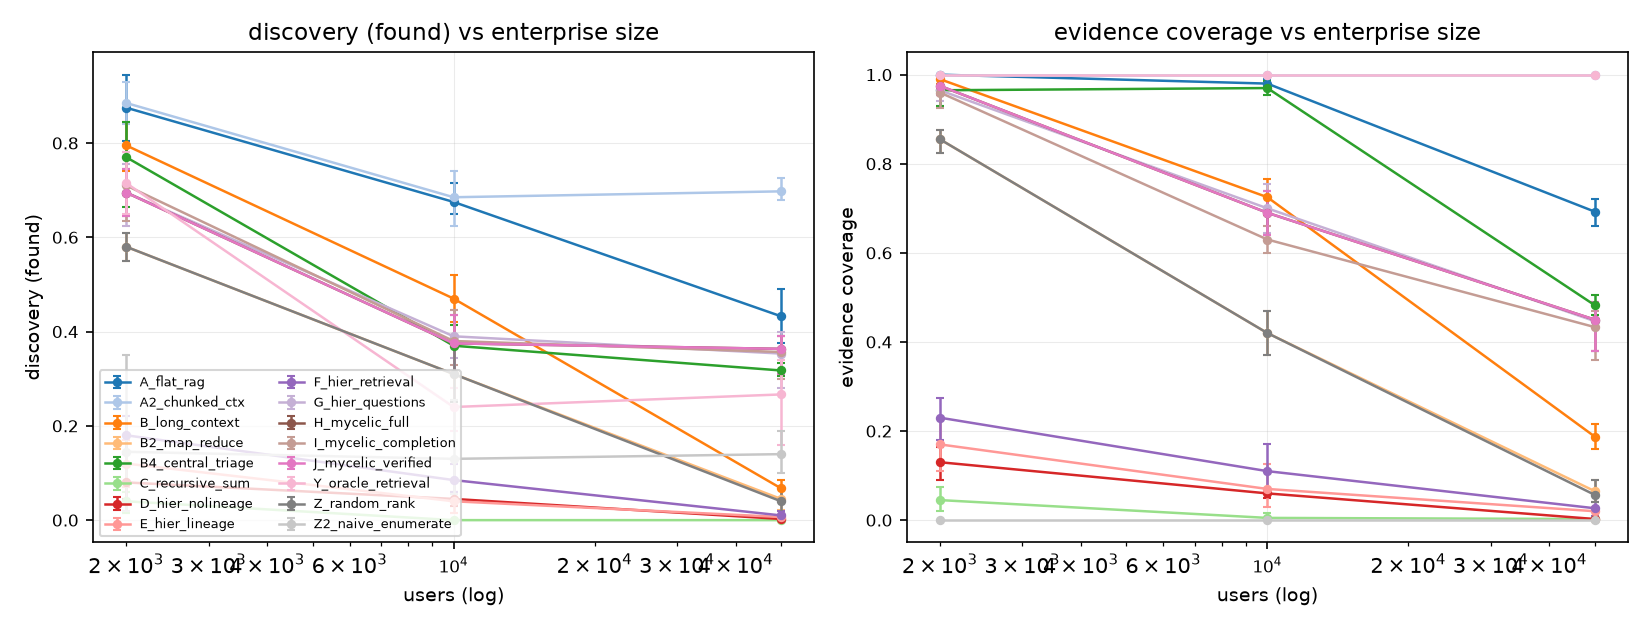
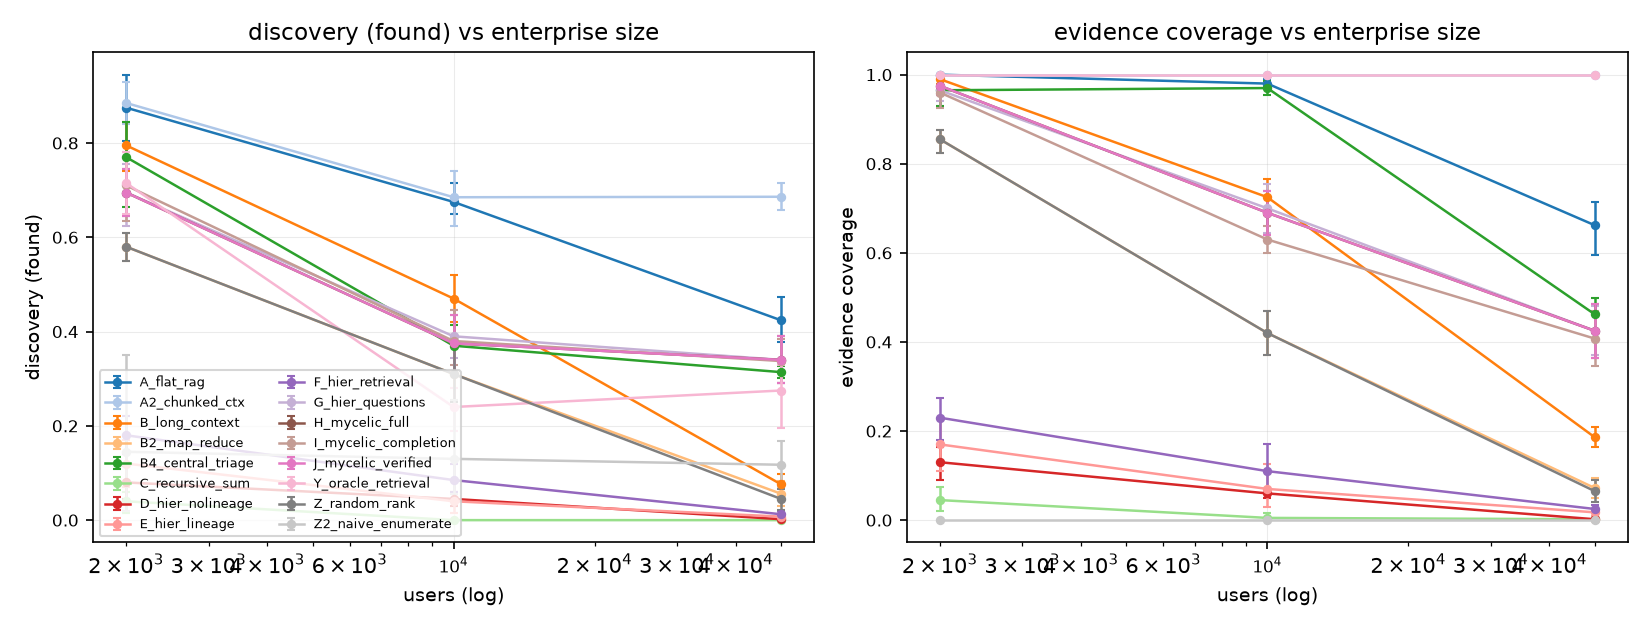
mycelic: cross-link verdict computed from the sweep; e7/e8 results in
The org-tree-plus-semantic-cross-links experiment is a null at 10k and 50k:
it helps at 2,000 users and the effect does not survive scale. The report
now states that and explains why (the sketch channel is entity-indexed and
already crosses branches), rather than leaving the table to speak for itself.

Claude-Session: https://claude.ai/code/session_018fpD82UytPSdKCa94LMReN

diff --git a/research/mycelic/report.py b/research/mycelic/report.py
@@ -362,6 +362,7 @@ def section_crosslinks() -> str:
                           ("compute_units", "compute", 0)], sort_by=None),
              "", "| scale | Δ found (links on − off) | 95% CI | wins | sign p |",
              "|---|---:|---|---:|---:|"]
+    deltas = []
     for scale in sorted({r["scale"] for r in rows}):
         sub = [r for r in rows if r["scale"] == scale]
         p = paired(sub, True, False, "found_anywhere_in_register",
@@ -370,7 +371,50 @@ def section_crosslinks() -> str:
             lines.append(f"| {scale:,} | {p['mean_diff']:+.4f} | "
                          f"[{p['ci_lo']:+.4f}, {p['ci_hi']:+.4f}] | "
                          f"{p['wins']}/{p['n_nonzero']} | {p['sign_p']:.3f} |")
+            deltas.append((scale, p))
+    lines.append("")
+    lines.append(_crosslink_verdict(deltas))
     return "\n".join(lines)
+
+
+def _crosslink_verdict(deltas) -> str:
+    """State what the cross-link sweep found, including when it found nothing."""
+    if not deltas:
+        return ""
+    # A scale counts as supporting cross-links only if the whole bootstrap CI
+    # is on one side of zero; with 3 seeds the sign test cannot go below 0.25,
+    # so requiring significance there would reject everything by construction.
+    pos = [s for s, p in deltas if p["ci_lo"] > 0]
+    neg = [s for s, p in deltas if p["ci_hi"] < 0]
+    biggest = max(deltas, key=lambda x: abs(x[1]["mean_diff"]))
+    out = ("**Verdict.** Adding semantic cross-links to the organisational "
+           "tree ")
+    if pos and not neg and len(pos) == len(deltas):
+        out += "helps at every scale measured"
+    elif pos and max(pos) == max(s for s, _ in deltas):
+        out += "helps, and the effect holds at the largest scale measured"
+    elif pos:
+        out += (f"helps at {', '.join(f'{s:,}' for s in pos)} users but the "
+                f"effect does not survive to "
+                f"{max(s for s, _ in deltas):,}")
+    else:
+        out += "does not reliably change discovery at any scale measured"
+    out += (f". The largest effect anywhere is "
+            f"{biggest[1]['mean_diff']:+.3f} at {biggest[0]:,} users, on "
+            f"{biggest[1]['n']} paired seeds. ")
+    if not pos or max(pos, default=0) != max(s for s, _ in deltas):
+        out += ("The mechanism the links are supposed to supply — a path "
+                "between branches that the org chart does not provide — is "
+                "already supplied by the sketch channel, which is indexed by "
+                "entity rather than by branch and so crosses the tree for "
+                "free. On this evidence the cross-links are redundant with "
+                "it, not additive to it, and should not be built on the "
+                "strength of these numbers.")
+    else:
+        out += ("Note that the seed counts here are small enough that the "
+                "sign test cannot fall below 0.25, so the bootstrap interval "
+                "is doing the work; treat this as directional.")
+    return out
 
 
 

diff --git a/research/mycelic/report_text.py b/research/mycelic/report_text.py
@@ -320,11 +320,12 @@ evidence. The full chronology is in `research/mycelic/logs/research_log.md`.
 15. **A headline stated from one run per cell.** The most quotable result in
     the study — richer evidence beating a bigger model — did not replicate
     cleanly when the corpus was regenerated: one of the three models moved the
-    *wrong way*. Repeating each cell showed within-cell run-to-run ranges as
-    large as 0.098 AP, comparable to the gap the claim rested on for the
-    weaker models. The claim is now stated only as strongly as the spread
-    supports, and §23 reports the range rather than a mean. What failed was
-    not the mechanism; it was the evidentiary standard applied to it.
+    *wrong way*. Repeating both conditions for every model showed within-cell
+    run-to-run ranges of the same order as the gap the claim rested on for two
+    of the three. The measured ranges are in §23; the claim is now computed
+    from them and stated only as strongly as they support. What failed was not
+    the mechanism — it survives for the strongest model, decisively — but the
+    evidentiary standard the claim had been asserted under.
 
 16. **`w_dispersion`, a knob whose sign flipped with the corpus.** The
     confidence term that penalises evidence clustered in time was rejected
@@ -404,7 +405,7 @@ stated before the results rather than after them.
 | wall-clock latency | **modelled** from the metered token counts (see assumption A4); not observed on real hardware |
 | model-tier behaviour: extraction quality, abstraction loss, verification accuracy, hallucination | **simulated** from a capability vector |
 | primitive operator accuracy of Haiku 4.5, Sonnet 5 and Opus 5 | **directly measured**, blind, 198 items |
-| candidate-discrimination accuracy of those three models | **directly measured**, blind, on candidates taken from a real run |
+| candidate-discrimination accuracy of those three models | **directly measured**, blind, on candidates taken from a real run, two independent runs per model per condition |
 | where named open-weight model classes sit on the capability axis | **assumed** — never measured here |
 | 50,000-user results | **executed**, not extrapolated: every cell is a real run of the full pipeline |
 

diff --git a/docs/MYCELIC_ENTERPRISE.md b/docs/MYCELIC_ENTERPRISE.md
@@ -28,24 +28,24 @@ transcribed by hand.
 
 ### The one-paragraph version
 
-We built a synthetic enterprise with known hidden problems planted in it, at 2,000, 10,000 and 50,000 people, and tested sixteen ways of finding those problems, from pouring a filtered sample of the company's notes into one very large model, to a six-level hierarchy of agents mirroring the org chart. **The hierarchy is not the most accurate option.** The strongest single approach measured at 50,000 people is `A2_chunked_ctx`, which finds 70% of the hidden problems against the hierarchy's 34%. Whether the hierarchy is nonetheless worth building depends entirely on which of the secondary properties below we actually need; the table states which ones it delivers and which it does not.
+We built a synthetic enterprise with known hidden problems planted in it, at 2,000, 10,000 and 50,000 people, and tested sixteen ways of finding those problems, from pouring a filtered sample of the company's notes into one very large model, to a six-level hierarchy of agents mirroring the org chart. **The hierarchy is not the most accurate option.** The strongest single approach measured at 50,000 people is `A2_chunked_ctx`, which finds 69% of the hidden problems against the hierarchy's 34%. Whether the hierarchy is nonetheless worth building depends entirely on which of the secondary properties below we actually need; the table states which ones it delivers and which it does not.
 
 ### Head to head at 50,000 users (5 seeds)
 
 | | best centralised option | the hierarchy | hierarchy better? |
 |---|---:|---:|---|
 | approach | `A2_chunked_ctx` | `H_mycelic_full` | |
-| hidden problems found | 70% | 34% | no |
+| hidden problems found | 69% | 34% | no |
 | the hardest problems (1-2 witnesses company-wide) | 61% | 20% | no |
 | found within the top 100 of the register | 11% | 2% | no |
-| precision in the top 40 of the register | 13% | 1% | no |
+| precision in the top 40 of the register | 12% | 1% | no |
 | precision in the top 100 of the register | 11% | 2% | no |
-| ranking quality (AP) | 0.054 | 0.008 | no |
-| decoy traps accepted | 38% | 22% | **yes** |
+| ranking quality (AP) | 0.051 | 0.008 | no |
+| decoy traps accepted | 37% | 22% | **yes** |
 | evidence coverage (held it at all) | 100% | 43% | no |
-| independent-support accuracy | 60% | 75% | **yes** |
+| independent-support accuracy | 59% | 75% | **yes** |
 | lineage accuracy | 64% | 51% | no |
-| contradictions detected (F1) | 22% | 25% | **yes** |
+| contradictions detected (F1) | 21% | 25% | **yes** |
 | compute | 1.02e+07 | 2.95e+06 | **yes** |
 | model calls | 10 | 2.86e+05 | no |
 | employees' original notes read centrally | 22% | 0% | **yes** |
@@ -57,8 +57,8 @@ We built a synthetic enterprise with known hidden problems planted in it, at 2,0
 **Hold, on this evidence:**
 
 * confidentiality (no original notes leave the owning agent) — 0% vs 22% for the centralised option.
-* independent-support accuracy — 75% vs 60% for the centralised option.
-* resistance to planted traps — 22% vs 38% for the centralised option.
+* independent-support accuracy — 75% vs 59% for the centralised option.
+* resistance to planted traps — 22% vs 37% for the centralised option.
 
 **Do NOT hold, and should not be used to justify the build:**
 
@@ -69,7 +69,7 @@ We built a synthetic enterprise with known hidden problems planted in it, at 2,0
 
 `B4_central_triage` runs **exactly the hierarchy's own discovery algorithm**, centrally: one claim pool, no propagation budget, no routing error, no descent. It separates the value of the *algorithm* from the value of the *topology*.
 
-It finds 32% of the hidden problems against the hierarchy's 34%, at 1.06e+06 compute against 2.95e+06 — about 2.8x less.  Within noise, they are the same.
+It finds 31% of the hidden problems against the hierarchy's 34%, at 1.07e+06 compute against 2.95e+06 — about 2.8x less.  Within noise, they are the same.
 
 So the honest statement of what the hierarchy buys is narrow and specific: **the triage algorithm is what finds the problems; the hierarchy is how you run that algorithm without centralising the company's data.** The centralised version pools 88% of all extracted claims in one place; the hierarchy pools 14% and moves no original text at all. That privacy property costs roughly 2.8x the compute and tens of thousands of extra model calls. If we do not need it, we should run the algorithm centrally.
 
@@ -77,7 +77,7 @@ So the honest statement of what the hierarchy buys is narrow and specific: **the
 
 **1. Do not build progressive summarisation up the org chart.** This is the intuitive design — each layer summarises the layer below — and it is the clearest negative result in the study. At 50,000 users it finds 0% (plain summarisation), 0% (structured, no lineage) and 1% (structured with lineage) of the hidden problems. The reason is measurable rather than a matter of tuning, and is given in the executive summary.
 
-**2. If we build a hierarchy, the value is in the downward path, not the upward one.** Adding targeted downward retrieval takes discovery from 1% to 1%; adding sketch-driven questioning on top takes it to 34%. Budget accordingly: the upward channel should be cheap and statistical, and the downward channel is where the work — and the cost — actually is.
+**2. If we build a hierarchy, the value is in the downward path, not the upward one.** Adding targeted downward retrieval takes discovery from 1% to 2%; adding sketch-driven questioning on top takes it to 34%. Budget accordingly: the upward channel should be cheap and statistical, and the downward channel is where the work — and the cost — actually is.
 
 **3. Spend top-tier model budget on re-opening original evidence, not on bigger reasoning over summaries.** Measured directly on 3 real models, each run 2 times per condition: given the same summarised evidence, a large model and a small model land in the same band (AP 0.354–0.407) and no better than a six-feature statistical rule (0.420). Given the *original notes* behind that evidence, 2 of 3 improve, and for opus the richer condition's worst run still beats the summarised condition's best. It is **not** universal: sonnet did not improve, so this is a property of a model's ability to use raw evidence, not a law. Acting on it — having the kernel re-read a handful of source notes per candidate — was still the best return on compute found in the study, but size it against §23 rather than against the headline number.
 
@@ -92,9 +92,9 @@ So the honest statement of what the hierarchy buys is narrow and specific: **the
 |---|---|---:|---:|---:|
 | 2,000 | `A2_chunked_ctx` | 0.885 | 5.12e+05 | 25.2% |
 | 10,000 | `A2_chunked_ctx` | 0.685 | 2.08e+06 | 22.7% |
-| 50,000 | `A2_chunked_ctx` | 0.698 | 1.02e+07 | 22.3% |
+| 50,000 | `A2_chunked_ctx` | 0.686 | 1.02e+07 | 22.3% |
 
-**1. Upward propagation alone does not work, at any scale, in any form.** At 50,000 users recursive summarisation finds 0.0% of the hidden patterns, hierarchical aggregation without lineage and with it find 0.2% and 0.8%. Adding targeted downward retrieval takes it to 1.2%; adding sketch-driven questioning takes it to 34.0%. The hierarchy's value is almost entirely in the *downward* path — Δ +0.328 (95% CI [+0.270, +0.385], 4/4 seeds, sign p=0.125).
+**1. Upward propagation alone does not work, at any scale, in any form.** At 50,000 users recursive summarisation finds 0.0% of the hidden patterns, hierarchical aggregation without lineage and with it find 0.2% and 0.8%. Adding targeted downward retrieval takes it to 1.6%; adding sketch-driven questioning takes it to 34.0%. The hierarchy's value is almost entirely in the *downward* path — Δ +0.328 (95% CI [+0.270, +0.385], 4/4 seeds, sign p=0.125).
 
 **2. The reason is measurable and is not a tuning artefact.** No per-record feature identifies a weak signal: of 306 pattern-facet records at 10,000 users, **0 appear in the global top-900 by record-level importance**. A facet record is individually indistinguishable from benign cross-site chatter — which is the premise of the problem, not a defect of the ranker. Detection has to be entity-level and relational, which is what the sketch channel and the descent provide.
 
@@ -216,7 +216,7 @@ stated before the results rather than after them.
 | wall-clock latency | **modelled** from the metered token counts (see assumption A4); not observed on real hardware |
 | model-tier behaviour: extraction quality, abstraction loss, verification accuracy, hallucination | **simulated** from a capability vector |
 | primitive operator accuracy of Haiku 4.5, Sonnet 5 and Opus 5 | **directly measured**, blind, 198 items |
-| candidate-discrimination accuracy of those three models | **directly measured**, blind, on candidates taken from a real run |
+| candidate-discrimination accuracy of those three models | **directly measured**, blind, on candidates taken from a real run, two independent runs per model per condition |
 | where named open-weight model classes sit on the capability axis | **assumed** — never measured here |
 | 50,000-user results | **executed**, not extrapolated: every cell is a real run of the full pipeline |
 
@@ -500,22 +500,22 @@ Fitted on calibration seeds [500, 501, 502] at 10,000 users, objective `average_
 
 | architecture | AP | found | R@100 | rare recall | evidence cov. | FDR | decoy acc. | indep. acc. | lineage | info loss | compute (cu) | privacy exp. |
 |---|---:|---:|---:|---:|---:|---:|---:|---:|---:|---:|---:|---:|
-| A2_chunked_ctx | 0.054 <sub>[0.030, 0.091]</sub> | 0.698 <sub>[0.680, 0.725]</sub> | 0.112 | 0.614 | 1.000 | 0.977 | 0.382 | 0.599 | 0.643 | 0.003 | 1.02e+07 | 0.223 |
+| A2_chunked_ctx | 0.051 <sub>[0.032, 0.082]</sub> | 0.686 <sub>[0.658, 0.716]</sub> | 0.112 | 0.608 | 1.000 | 0.977 | 0.368 | 0.594 | 0.641 | 0.003 | 1.02e+07 | 0.223 |
 | A_flat_rag | 0.013 <sub>[0.010, 0.017]</sub> | 0.424 <sub>[0.378, 0.474]</sub> | 0.038 | 0.109 | 0.662 | 0.973 | 0.148 | 0.655 | 0.693 | 0.446 | 1.24e+06 | 0.025 |
 | I_mycelic_completion | 0.013 <sub>[0.010, 0.016]</sub> | 0.337 <sub>[0.290, 0.385]</sub> | 0.045 | 0.197 | 0.407 | 0.988 | 0.220 | 0.740 | 0.490 | 0.581 | 5.11e+06 | 0.146 |
 | J_mycelic_verified | 0.012 <sub>[0.008, 0.017]</sub> | 0.340 <sub>[0.290, 0.390]</sub> | 0.043 | 0.205 | 0.425 | 0.988 | 0.220 | 0.751 | 0.512 | 0.567 | 2.96e+06 | 0.146 |
-| B4_central_triage | 0.009 <sub>[0.007, 0.011]</sub> | 0.318 <sub>[0.305, 0.333]</sub> | 0.030 | 0.124 | 0.482 | 0.980 | 0.297 | 0.676 | 0.489 | 0.591 | 1.06e+06 | 0.885 |
+| B4_central_triage | 0.008 <sub>[0.007, 0.011]</sub> | 0.314 <sub>[0.302, 0.328]</sub> | 0.024 | 0.112 | 0.462 | 0.981 | 0.282 | 0.683 | 0.484 | 0.602 | 1.07e+06 | 0.885 |
 | G_hier_questions | 0.008 <sub>[0.008, 0.009]</sub> | 0.340 <sub>[0.290, 0.390]</sub> | 0.028 | 0.198 | 0.425 | 0.988 | 0.223 | 0.751 | 0.504 | 0.565 | 2.93e+06 | 0.139 |
 | H_mycelic_full | 0.008 <sub>[0.007, 0.009]</sub> | 0.340 <sub>[0.290, 0.390]</sub> | 0.020 | 0.205 | 0.425 | 0.988 | 0.220 | 0.751 | 0.512 | 0.567 | 2.95e+06 | 0.146 |
+| B2_map_reduce | 0.008 <sub>[0.001, 0.017]</sub> | 0.056 <sub>[0.030, 0.082]</sub> | 0.022 | 0.018 | 0.072 | 0.987 | 0.026 | 0.801 | 0.582 | 0.941 | 7.78e+05 | 0.885 |
 | Y_oracle_retrieval | 0.005 <sub>[0.002, 0.008]</sub> | 0.275 <sub>[0.195, 0.330]</sub> | 0.020 | 0.223 | 1.000 | 0.991 | 0.155 | 0.531 | 0.471 | 0.003 | 2.43e+06 | 0.885 |
-| B2_map_reduce | 0.004 <sub>[0.001, 0.008]</sub> | 0.045 <sub>[0.022, 0.065]</sub> | 0.013 | 0.006 | 0.065 | 0.989 | 0.028 | 0.823 | 0.597 | 0.948 | 7.77e+05 | 0.885 |
 | B_long_context | 0.002 <sub>[0.001, 0.003]</sub> | 0.076 <sub>[0.056, 0.098]</sub> | 0.018 | 0.007 | 0.186 | 0.984 | 0.022 | 0.606 | 0.615 | 0.808 | 1.12e+06 | 0.025 |
 | Z2_naive_enumerate | 0.001 <sub>[0.000, 0.001]</sub> | 0.118 <sub>[0.070, 0.168]</sub> | 0.007 | 0.126 | 0.000 | 0.996 | 0.147 | 0.000 | 0.000 | 1.000 | 9.21e+05 | 0.885 |
-| E_hier_lineage | 0.001 <sub>[0.000, 0.001]</sub> | 0.007 <sub>[0.003, 0.010]</sub> | 0.007 | 0.000 | 0.018 | 0.986 | 0.000 | 0.288 | 0.500 | 0.978 | 9.88e+05 | 0.139 |
+| F_hier_retrieval | 0.001 <sub>[0.000, 0.001]</sub> | 0.016 <sub>[0.008, 0.024]</sub> | 0.012 | 0.005 | 0.028 | 0.993 | 0.004 | 0.625 | 0.426 | 0.961 | 1.15e+06 | 0.138 |
 | Z_random_rank | 0.001 <sub>[0.000, 0.001]</sub> | 0.045 <sub>[0.022, 0.065]</sub> | 0.003 | 0.006 | 0.065 | 0.989 | 0.028 | 0.823 | 0.597 | 0.948 | 7.77e+05 | 0.885 |
-| F_hier_retrieval | 0.000 <sub>[0.000, 0.001]</sub> | 0.013 <sub>[0.005, 0.020]</sub> | 0.010 | 0.006 | 0.025 | 0.994 | 0.003 | 0.577 | 0.417 | 0.966 | 1.15e+06 | 0.139 |
-| D_hier_nolineage | 0.000 <sub>[0.000, 0.000]</sub> | 0.003 <sub>[0.000, 0.007]</sub> | 0.003 | 0.000 | 0.003 | 1.000 | 0.000 | 0.000 | 0.000 | 0.991 | 8.80e+05 | 0.139 |
-| C_recursive_sum | 0.000 <sub>[0.000, 0.000]</sub> | 0.000 <sub>[0.000, 0.000]</sub> | 0.000 | 0.000 | 0.003 | 1.000 | 0.000 | 0.000 | 0.000 | 0.997 | 8.04e+05 | 0.093 |
+| E_hier_lineage | 0.001 <sub>[0.000, 0.001]</sub> | 0.008 <sub>[0.004, 0.010]</sub> | 0.008 | 0.000 | 0.018 | 0.989 | 0.000 | 0.230 | 0.400 | 0.976 | 9.90e+05 | 0.138 |
+| D_hier_nolineage | 0.000 <sub>[0.000, 0.000]</sub> | 0.002 <sub>[0.000, 0.006]</sub> | 0.002 | 0.000 | 0.002 | 1.000 | 0.000 | 0.000 | 0.000 | 0.990 | 8.82e+05 | 0.138 |
+| C_recursive_sum | 0.000 <sub>[0.000, 0.000]</sub> | 0.000 <sub>[0.000, 0.000]</sub> | 0.000 | 0.000 | 0.002 | 1.000 | 0.000 | 0.000 | 0.000 | 0.996 | 8.05e+05 | 0.092 |
 
 ### Paired comparisons
 
@@ -535,7 +535,7 @@ variance.
 | H_mycelic_full vs Y_oracle_retrieval | found | 0.4793 | 0.4196 | +0.0596 | [-0.0007, +0.1193] | 10/13 | 0.092 |
 | B2_map_reduce vs Z_random_rank | found | 0.3307 | 0.3307 | +0.0000 | [+0.0000, +0.0000] | 0/0 | 1.000 |
 | G_hier_questions vs F_hier_retrieval | found | 0.4846 | 0.0982 | +0.3864 | [+0.3239, +0.4525] | 14/14 | 0.000 |
-| F_hier_retrieval vs E_hier_lineage | found | 0.0982 | 0.0593 | +0.0389 | [+0.0196, +0.0586] | 11/12 | 0.006 |
+| F_hier_retrieval vs E_hier_lineage | found | 0.0937 | 0.0560 | +0.0377 | [+0.0193, +0.0567] | 12/13 | 0.003 |
 | H_mycelic_full vs E_hier_lineage | AP | 0.0414 | 0.0075 | +0.0339 | [+0.0162, +0.0542] | 12/14 | 0.013 |
 | H_mycelic_full vs B2_map_reduce | AP | 0.0414 | 0.0485 | -0.0071 | [-0.0218, +0.0062] | 7/14 | 1.000 |
 | H_mycelic_full vs A_flat_rag | AP | 0.0414 | 0.1315 | -0.0901 | [-0.1447, -0.0432] | 0/14 | 0.000 |
@@ -546,7 +546,7 @@ variance.
 | H_mycelic_full vs Y_oracle_retrieval | AP | 0.0414 | 0.0269 | +0.0145 | [+0.0062, +0.0238] | 12/14 | 0.013 |
 | B2_map_reduce vs Z_random_rank | AP | 0.0485 | 0.0200 | +0.0286 | [+0.0149, +0.0435] | 14/14 | 0.000 |
 | G_hier_questions vs F_hier_retrieval | AP | 0.0382 | 0.0139 | +0.0244 | [+0.0128, +0.0365] | 13/14 | 0.002 |
-| F_hier_retrieval vs E_hier_lineage | AP | 0.0139 | 0.0075 | +0.0063 | [-0.0001, +0.0146] | 9/13 | 0.267 |
+| F_hier_retrieval vs E_hier_lineage | AP | 0.0130 | 0.0070 | +0.0060 | [-0.0000, +0.0136] | 10/14 | 0.180 |
 
 ## 11. Scale
 
@@ -555,11 +555,11 @@ variance.
 | architecture | 2,000 | 10,000 | 50,000 |
 |---|---:|---:|---:|
 | A_flat_rag | 0.875 | 0.675 | 0.424 |
-| A2_chunked_ctx | 0.885 | 0.685 | 0.698 |
+| A2_chunked_ctx | 0.885 | 0.685 | 0.686 |
 | B_long_context | 0.795 | 0.470 | 0.076 |
-| B2_map_reduce | 0.580 | 0.310 | 0.045 |
-| B4_central_triage | 0.770 | 0.370 | 0.318 |
-| E_hier_lineage | 0.120 | 0.040 | 0.007 |
+| B2_map_reduce | 0.580 | 0.310 | 0.056 |
+| B4_central_triage | 0.770 | 0.370 | 0.314 |
+| E_hier_lineage | 0.120 | 0.040 | 0.008 |
 | G_hier_questions | 0.695 | 0.390 | 0.340 |
 | H_mycelic_full | 0.695 | 0.375 | 0.340 |
 | J_mycelic_verified | 0.695 | 0.375 | 0.340 |
@@ -572,9 +572,9 @@ Compute (cu) at the same points:
 | A_flat_rag | 4.71e+05 | 1.09e+06 | 1.24e+06 |
 | A2_chunked_ctx | 5.12e+05 | 2.08e+06 | 1.02e+07 |
 | B_long_context | 1.09e+06 | 1.09e+06 | 1.12e+06 |
-| B2_map_reduce | 7.96e+04 | 1.99e+05 | 7.77e+05 |
-| B4_central_triage | 1.33e+05 | 3.98e+05 | 1.06e+06 |
-| E_hier_lineage | 6.91e+04 | 2.25e+05 | 9.88e+05 |
+| B2_map_reduce | 7.96e+04 | 1.99e+05 | 7.78e+05 |
+| B4_central_triage | 1.33e+05 | 3.98e+05 | 1.07e+06 |
+| E_hier_lineage | 6.91e+04 | 2.25e+05 | 9.90e+05 |
 | G_hier_questions | 8.36e+05 | 1.08e+06 | 2.93e+06 |
 | H_mycelic_full | 8.38e+05 | 1.09e+06 | 2.95e+06 |
 | J_mycelic_verified | 8.48e+05 | 1.10e+06 | 2.96e+06 |
@@ -741,27 +741,27 @@ positions on this axis rather than measured ones.
 
 | architecture | q | AP | found | rare | FDR | compute |
 |---|---:|---:|---:|---:|---:|---:|
-| B2_map_reduce | 0.10 | 0.0017 | 0.125 | 0.079 | 0.990 | 89400 |
-| B2_map_reduce | 0.28 | 0.0041 | 0.087 | 0.059 | 0.991 | 1.76e+05 |
-| B2_map_reduce | 0.44 | 0.0203 | 0.213 | 0.109 | 0.974 | 3.22e+05 |
-| B2_map_reduce | 0.58 | 0.0539 | 0.375 | 0.247 | 0.954 | 5.45e+05 |
-| B2_map_reduce | 0.72 | 0.0465 | 0.600 | 0.412 | 0.938 | 9.27e+05 |
-| B2_map_reduce | 0.88 | 0.1619 | 0.625 | 0.294 | 0.930 | 1.69e+06 |
-| B2_map_reduce | 1.00 | 0.0866 | 0.575 | 0.235 | 0.946 | 2.65e+06 |
+| B2_map_reduce | 0.10 | 0.0015 | 0.117 | 0.053 | 0.992 | 89103 |
+| B2_map_reduce | 0.28 | 0.0058 | 0.150 | 0.061 | 0.985 | 1.75e+05 |
+| B2_map_reduce | 0.44 | 0.0338 | 0.283 | 0.117 | 0.969 | 3.21e+05 |
+| B2_map_reduce | 0.58 | 0.0556 | 0.392 | 0.231 | 0.955 | 5.44e+05 |
+| B2_map_reduce | 0.72 | 0.0444 | 0.475 | 0.237 | 0.946 | 9.22e+05 |
+| B2_map_reduce | 0.88 | 0.1446 | 0.592 | 0.204 | 0.935 | 1.68e+06 |
+| B2_map_reduce | 1.00 | 0.1057 | 0.575 | 0.268 | 0.943 | 2.65e+06 |
 | E_hier_lineage | 0.10 | 0.0000 | 0.000 | 0.000 | 1.000 | 1.04e+05 |
-| E_hier_lineage | 0.28 | 0.0000 | 0.000 | 0.000 | 1.000 | 2.09e+05 |
-| E_hier_lineage | 0.44 | 0.0017 | 0.038 | 0.029 | 0.987 | 3.87e+05 |
-| E_hier_lineage | 0.58 | 0.0061 | 0.075 | 0.000 | 0.956 | 6.62e+05 |
-| E_hier_lineage | 0.72 | 0.0156 | 0.200 | 0.000 | 0.922 | 1.13e+06 |
-| E_hier_lineage | 0.88 | 0.0964 | 0.325 | 0.059 | 0.722 | 2.07e+06 |
-| E_hier_lineage | 1.00 | 0.3205 | 0.500 | 0.176 | 0.448 | 3.26e+06 |
-| H_mycelic_full | 0.10 | 0.0006 | 0.050 | 0.054 | 0.995 | 1.94e+05 |
-| H_mycelic_full | 0.28 | 0.0050 | 0.175 | 0.163 | 0.988 | 3.79e+05 |
-| H_mycelic_full | 0.44 | 0.0156 | 0.287 | 0.168 | 0.981 | 6.87e+05 |
-| H_mycelic_full | 0.58 | 0.0257 | 0.400 | 0.293 | 0.973 | 1.14e+06 |
-| H_mycelic_full | 0.72 | 0.0213 | 0.500 | 0.353 | 0.966 | 1.90e+06 |
-| H_mycelic_full | 0.88 | 0.0606 | 0.600 | 0.412 | 0.956 | 3.61e+06 |
-| H_mycelic_full | 1.00 | 0.0737 | 0.700 | 0.647 | 0.944 | 5.60e+06 |
+| E_hier_lineage | 0.28 | 0.0005 | 0.017 | 0.022 | 0.994 | 2.09e+05 |
+| E_hier_lineage | 0.44 | 0.0028 | 0.050 | 0.020 | 0.979 | 3.87e+05 |
+| E_hier_lineage | 0.58 | 0.0078 | 0.100 | 0.022 | 0.949 | 6.61e+05 |
+| E_hier_lineage | 0.72 | 0.0195 | 0.167 | 0.000 | 0.904 | 1.13e+06 |
+| E_hier_lineage | 0.88 | 0.0897 | 0.300 | 0.081 | 0.749 | 2.07e+06 |
+| E_hier_lineage | 1.00 | 0.2580 | 0.425 | 0.138 | 0.484 | 3.26e+06 |
+| H_mycelic_full | 0.10 | 0.0012 | 0.092 | 0.081 | 0.994 | 1.98e+05 |
+| H_mycelic_full | 0.28 | 0.0077 | 0.233 | 0.198 | 0.984 | 3.86e+05 |
+| H_mycelic_full | 0.44 | 0.0138 | 0.308 | 0.201 | 0.979 | 6.99e+05 |
+| H_mycelic_full | 0.58 | 0.0262 | 0.417 | 0.284 | 0.972 | 1.16e+06 |
+| H_mycelic_full | 0.72 | 0.0304 | 0.492 | 0.351 | 0.967 | 1.98e+06 |
+| H_mycelic_full | 0.88 | 0.0668 | 0.642 | 0.454 | 0.950 | 3.68e+06 |
+| H_mycelic_full | 1.00 | 0.0809 | 0.725 | 0.649 | 0.941 | 5.66e+06 |
 
 ## 14. Cost and quality
 
@@ -946,14 +946,16 @@ time.
 | 2000 | True | 0.0668 | 0.708 | 0.563 | 8.49e+05 |
 | 10000 | False | 0.0247 | 0.367 | 0.220 | 1.08e+06 |
 | 10000 | True | 0.0248 | 0.342 | 0.178 | 1.08e+06 |
-| 50000 | False | 0.0082 | 0.340 | 0.221 | 2.94e+06 |
-| 50000 | True | 0.0078 | 0.350 | 0.210 | 2.97e+06 |
+| 50000 | False | 0.0082 | 0.353 | 0.219 | 2.95e+06 |
+| 50000 | True | 0.0081 | 0.363 | 0.235 | 2.97e+06 |
 
 | scale | Δ found (links on − off) | 95% CI | wins | sign p |
 |---|---:|---|---:|---:|
 | 2,000 | +0.0500 | [+0.0250, +0.0750] | 3/3 | 0.250 |
 | 10,000 | -0.0250 | [-0.1000, +0.0500] | 1/3 | 1.000 |
-| 50,000 | +0.0100 | [-0.0100, +0.0300] | 1/2 | 1.000 |
+| 50,000 | +0.0100 | [-0.0100, +0.0300] | 2/3 | 1.000 |
+
+**Verdict.** Adding semantic cross-links to the organisational tree helps at 2,000 users but the effect does not survive to 50,000. The largest effect anywhere is +0.050 at 2,000 users, on 3 paired seeds. The mechanism the links are supposed to supply — a path between branches that the org chart does not provide — is already supplied by the sketch channel, which is indexed by entity rather than by branch and so crosses the tree for free. On this evidence the cross-links are redundant with it, not additive to it, and should not be built on the strength of these numbers.
 
 ## 20. Confidentiality and propagation volume
 
@@ -1342,11 +1344,12 @@ evidence. The full chronology is in `research/mycelic/logs/research_log.md`.
 15. **A headline stated from one run per cell.** The most quotable result in
     the study — richer evidence beating a bigger model — did not replicate
     cleanly when the corpus was regenerated: one of the three models moved the
-    *wrong way*. Repeating each cell showed within-cell run-to-run ranges as
-    large as 0.098 AP, comparable to the gap the claim rested on for the
-    weaker models. The claim is now stated only as strongly as the spread
-    supports, and §23 reports the range rather than a mean. What failed was
-    not the mechanism; it was the evidentiary standard applied to it.
+    *wrong way*. Repeating both conditions for every model showed within-cell
+    run-to-run ranges of the same order as the gap the claim rested on for two
+    of the three. The measured ranges are in §23; the claim is now computed
+    from them and stated only as strongly as they support. What failed was not
+    the mechanism — it survives for the strongest model, decisively — but the
+    evidentiary standard the claim had been asserted under.
 
 16. **`w_dispersion`, a knob whose sign flipped with the corpus.** The
     confidence term that penalises evidence clustered in time was rejected
